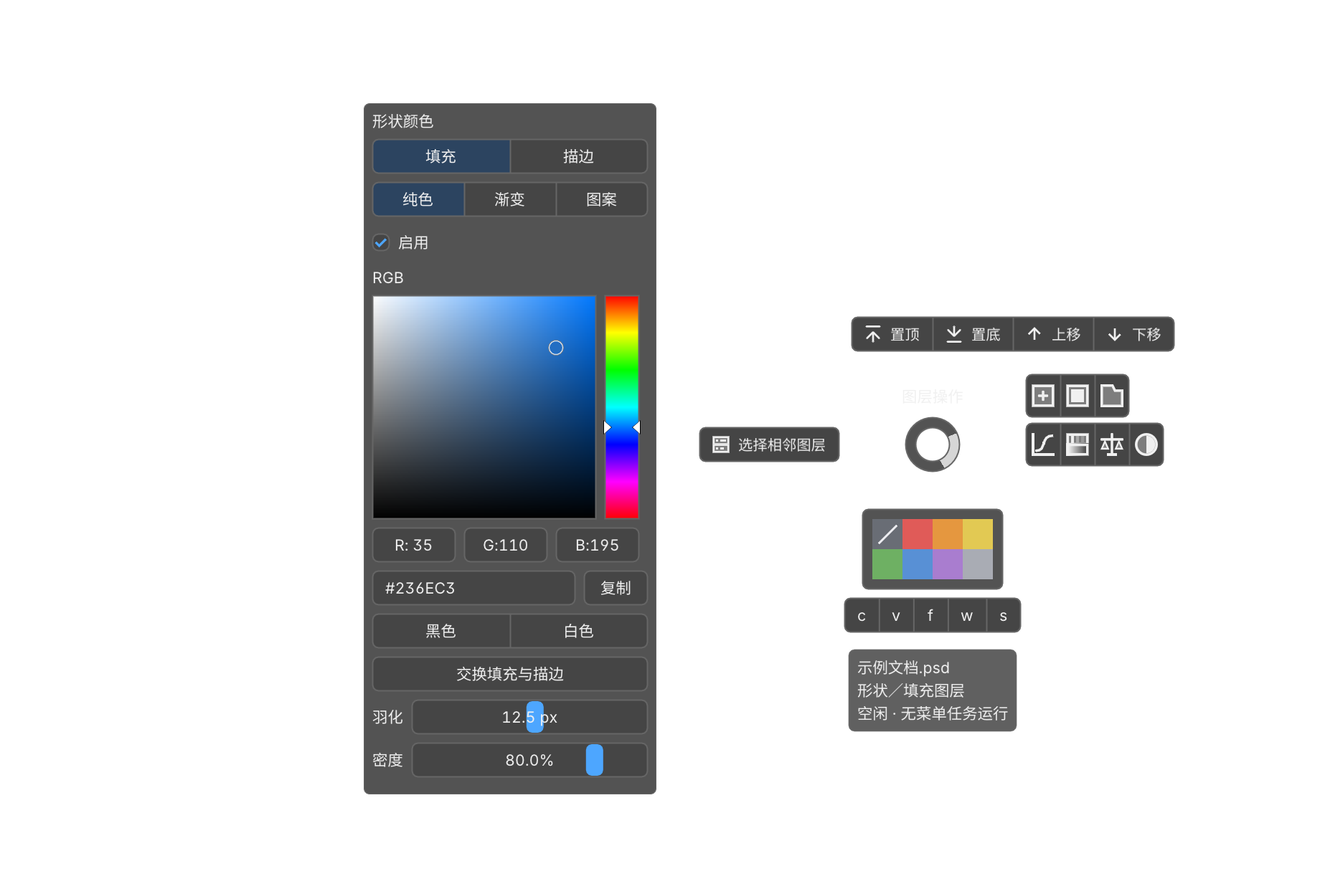
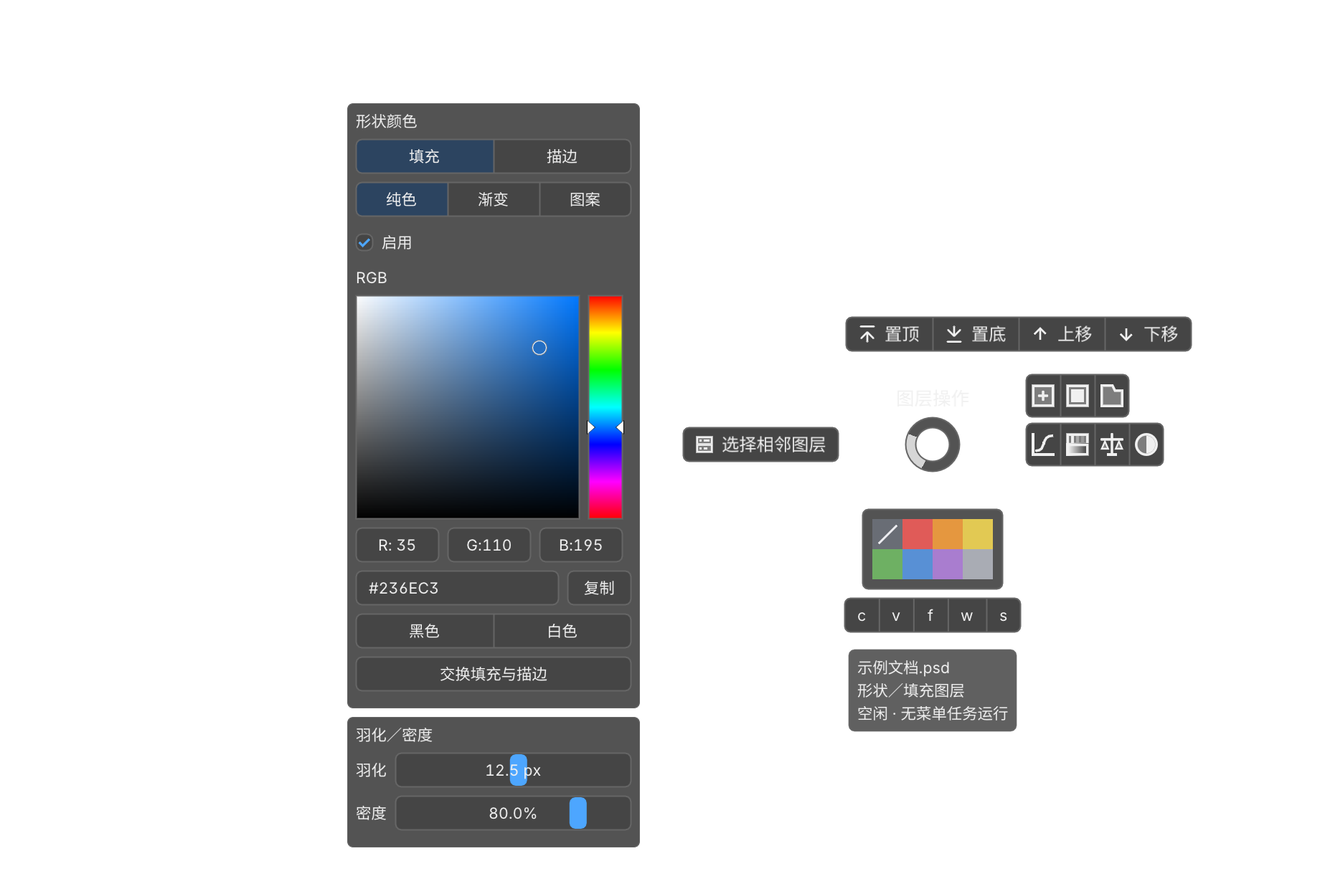
feat: split color and vector mask editor panels

diff --git a/uxp/offline-probe/labels.js b/uxp/offline-probe/labels.js
@@ -741,13 +741,11 @@ function createShapePaint(ps,session,capture,selectionContext) {
         const key=p=>JSON.stringify([p.kind,p.enabled,p.rgb,p.stops?.map(s=>[s.location,...s.rgb]),p.name,p.width]);
         const fillChanged=key(params.fill)!==key(appliedPaint.fill),strokeChanged=key(params.stroke)!==key(appliedPaint.stroke);
         const paintChanged=fillChanged || strokeChanged;
-        // A legacy shape can have no AGM stroke descriptor at all. A fill-only
-        // shapeStyle set materializes a default stroke; use contentLayer's
-        // native fill setter instead to preserve that absence and its flags.
-        const fillOnly=fillChanged && !strokeChanged && params.fill.kind==='solid' &&
-          params.fill.enabled===appliedPaint.fill.enabled;
-        const to=before.vector&&!fillOnly?{_obj:'shapeStyle'}:build(params.fill,original.fill);
-        if(before.vector && !fillOnly) {
+        // Vector-backed content must use Photoshop's shapeStyle setter.
+        // Direct solidColorLayer writes are unavailable in some real shapes,
+        // including vector masks inherited by a newly created solid fill.
+        const to=before.vector?{_obj:'shapeStyle'}:build(params.fill,original.fill);
+        if(before.vector) {
           if(fillChanged)to.fillContents=build(params.fill,original.fill);
           if(strokeChanged || params.fill.enabled!==appliedPaint.fill.enabled) {
             to.strokeStyle={...clone(appliedRaw.stroke),strokeStyleVersion:2,fillEnabled:params.fill.enabled};

diff --git a/uxp/offline-probe/main.js b/uxp/offline-probe/main.js
@@ -121,7 +121,7 @@ async function probe(reason) {
       heartbeatValue={
         ...await metadata(),
         reason: reason === 'poll' ? 'heartbeat' : reason,
-        sequence: ++sequence, probe_version: '0.3.25', session, transport: 'plugin-data-files',
+        sequence: ++sequence, probe_version: '0.3.26', session, transport: 'plugin-data-files',
         layer_observation:observation,
         ...await labels.interfacePreferences(),
         photoshop_version: optional(() => uxp.host.version),
@@ -160,7 +160,7 @@ async function probe(reason) {
       catch(_){}
     }
     seen.add(request.id); // Consume before any write; never retry after an uncertain response.
-    const response = {schema:1,session,id: request.id, probe_version: '0.3.25', operation: request.operation,
+    const response = {schema:1,session,id: request.id, probe_version: '0.3.26', operation: request.operation,
       transport: 'plugin-data-files', document_count: app.documents.length,
       completed_at_ms: Date.now(), phase: 'completed'};
     const timingStarted=Date.now(),timings={};

diff --git a/native/ShapeColorEditor.h b/native/ShapeColorEditor.h
@@ -8,13 +8,13 @@ struct ShapeColorEditor {
     std::string hexKey;
     ULONGLONG copiedAt=0;
     bool copyFailed=false;
-    RECT bounds{},copyBounds{},gradientBounds{},featherBounds{},densityBounds{};
+    RECT bounds{},maskBounds{},copyBounds{},gradientBounds{},featherBounds{},densityBounds{};
     bool gradientDragging=false;
     float gradientDragOffset=0;
     void prepare(const Json& data) {
         maskPreviewStarted=false;
         lastPreview=Json();
-        available=false;dirty=false;bounds=copyBounds=gradientBounds=featherBounds=densityBounds={};gradientDragging=false;gradientDragOffset=0;channel=stop=0;modes={};hexInput[0]=0;hexKey.clear();copiedAt=0;copyFailed=false;
+        available=false;dirty=false;bounds=maskBounds=copyBounds=gradientBounds=featherBounds=densityBounds={};gradientDragging=false;gradientDragOffset=0;channel=stop=0;modes={};hexInput[0]=0;hexKey.clear();copiedAt=0;copyFailed=false;
         if(!data.value("available",false))return;
         if(!data.at("revision").is_string() || !data.at("fill").is_object() || !data.at("stroke").is_object())return;
         original=draft=Json{{"revision",data.at("revision")},{"fill",data.at("fill")},{"stroke",data.at("stroke")}};
@@ -50,6 +50,7 @@ struct ShapeColorEditor {
         return true;
     }
     bool hasMask() const {return vector && draft.contains("mask");}
+    bool hit(POINT point) const {return PtInRect(&bounds,point) || PtInRect(&maskBounds,point);}
 };
 static ShapeColorEditor shapeEditor;
 static Json testedShapePaint;
@@ -192,7 +193,7 @@ static void drawGradientBar(float width) {
     ImGui::SetCursorScreenPos({at.x,at.y+menuGradientEditorHeight*scale+menuPanelGap*scale});
 }
 static void drawShapeEditor() {
-    shapeEditor.bounds=shapeEditor.copyBounds=shapeEditor.gradientBounds=shapeEditor.featherBounds=shapeEditor.densityBounds={};if(!shapeEditor.ready())return;
+    shapeEditor.bounds=shapeEditor.maskBounds=shapeEditor.copyBounds=shapeEditor.gradientBounds=shapeEditor.featherBounds=shapeEditor.densityBounds={};if(!shapeEditor.ready())return;
     const auto windowPos=ImGui::GetWindowPos(),windowSize=ImGui::GetWindowSize();
     const float available=pieCenter.x-windowPos.x-65*scale-basicLabelExtent(0).x-basicTextOffset()-figmaBasicRightPadding*scale-30*scale;
     if(available<140*scale)return;
@@ -201,10 +202,13 @@ static void drawShapeEditor() {
     const float row=menuControlHeight*scale+gap,textLine=panelFont->FontSize+gap;
     const auto kind=shapeEditor.current().value("kind",std::string("solid"));
     const float content=2*menuControlPadding*scale+textLine+2*row+(shapeEditor.vector?row:0)+
-        (kind=="pattern"?row:textLine+width-2*menuControlPadding*scale+2*row+(kind=="gradient"?menuGradientEditorHeight*scale+gap:0))+(shapeEditor.vector?row:0)+(shapeEditor.hasMask()?2*row:0);
-    const float height=std::min(content,windowSize.y-24*scale);
+        (kind=="pattern"?row:textLine+width-2*menuControlPadding*scale+2*row+(kind=="gradient"?menuGradientEditorHeight*scale+gap:0))+(shapeEditor.vector?row:0);
+    const float maskHeight=shapeEditor.hasMask()?2*menuControlPadding*scale+textLine+2*row:0;
+    const float separation=shapeEditor.hasMask()?gap:0;
+    const float height=std::min(content,windowSize.y-24*scale-maskHeight-separation);
+    const float totalHeight=height+separation+maskHeight;
     ImVec2 at={std::max(windowPos.x+16*scale,pieCenter.x-65*scale-basicLabelExtent(0).x-basicTextOffset()-figmaBasicRightPadding*scale-30*scale-width),std::max(windowPos.y+12*scale,pieCenter.y-238*scale)};
-    at.y=std::max(windowPos.y+12*scale,std::min(at.y,windowPos.y+windowSize.y-height-12*scale));
+    at.y=std::max(windowPos.y+12*scale,std::min(at.y,windowPos.y+windowSize.y-totalHeight-12*scale));
     shapeEditor.bounds={LONG(at.x),LONG(at.y),LONG(at.x+width),LONG(at.y+height)};
     const auto saved=ImGui::GetCursorScreenPos();ImGui::SetCursorScreenPos(at);
     ImGui::PushStyleColor(ImGuiCol_ChildBg,ImGui::GetStyle().Colors[ImGuiCol_WindowBg]);
@@ -249,7 +253,7 @@ static void drawShapeEditor() {
         Json& c=paintKind=="solid"?p["rgb"]:p["stops"][shapeEditor.stop]["rgb"];
         float color[]={c[0].get<float>()/255,c[1].get<float>()/255,c[2].get<float>()/255,1};
         ImGui::TextUnformatted("RGB");
-        const float reserve=((shapeEditor.vector?3:2)+(shapeEditor.hasMask()?2:0))*ImGui::GetFrameHeightWithSpacing()+gap;
+        const float reserve=(shapeEditor.vector?3:2)*ImGui::GetFrameHeightWithSpacing()+gap;
         ImGui::SetNextItemWidth(std::min(inner,std::max(90*scale,ImGui::GetContentRegionAvail().y-reserve)));
         if(ImGui::ColorPicker4("##paint",color,ImGuiColorEditFlags_NoAlpha|ImGuiColorEditFlags_NoSidePreview|ImGuiColorEditFlags_NoSmallPreview|
             ImGuiColorEditFlags_NoOptions|ImGuiColorEditFlags_NoDragDrop|ImGuiColorEditFlags_PickerHueBar|ImGuiColorEditFlags_DisplayRGB|ImGuiColorEditFlags_Uint8)){
@@ -280,7 +284,14 @@ static void drawShapeEditor() {
         shapeEditor.modes={};for(int i=0;i<2;++i){const auto& v=shapeEditor.draft[i?"stroke":"fill"];shapeEditor.modes[i]=Json::object();shapeEditor.modes[i][v.at("kind").get<std::string>()]=v;}
         shapeEditor.stop=0;shapeEditor.changed();
     }
+    ImGui::EndDisabled();ImGui::EndChild();
     if(shapeEditor.hasMask()) {
+        const ImVec2 maskAt={at.x,at.y+height+gap};
+        shapeEditor.maskBounds={LONG(maskAt.x),LONG(maskAt.y),LONG(maskAt.x+width),LONG(maskAt.y+maskHeight)};
+        ImGui::SetCursorScreenPos(maskAt);
+        ImGui::BeginChild("shape-mask",{width,maskHeight},ImGuiChildFlags_Borders,ImGuiWindowFlags_NoScrollbar|ImGuiWindowFlags_NoScrollWithMouse);
+        ImGui::BeginDisabled(pieAnimating);
+        ImGui::TextUnformatted("羽化／密度");
         const float labelWidth=std::max(ImGui::CalcTextSize("羽化").x,ImGui::CalcTextSize("密度").x);
         auto slider=[&](const char* label,const char* id,const char* key,float maximum,const char* format,ImGuiSliderFlags flags,RECT& bounds){
             const auto at=ImGui::GetCursorScreenPos();
@@ -293,9 +304,10 @@ static void drawShapeEditor() {
         };
         slider("羽化","##mask-feather","feather",1000.f,"%.1f px",ImGuiSliderFlags_Logarithmic,shapeEditor.featherBounds);
         slider("密度","##mask-density","density",100.f,"%.1f%%",ImGuiSliderFlags_None,shapeEditor.densityBounds);
+        ImGui::EndDisabled();ImGui::EndChild();
     }
     // No writes for channel/stop selection or copying; one latest draft per frame.
     if(!pieAnimating && shapeEditor.valid() && (shapeEditor.dirty || maskPreviewStarted) &&
        shapeEditor.draft!=shapeEditor.lastPreview)emitMaskPreview();
-    ImGui::EndDisabled();ImGui::EndChild();ImGui::PopStyleVar(6);ImGui::PopFont();ImGui::PopStyleColor();ImGui::SetCursorScreenPos(saved);
+    ImGui::PopStyleVar(6);ImGui::PopFont();ImGui::PopStyleColor();ImGui::SetCursorScreenPos(saved);
 }

diff --git a/native/MenuHost.cpp b/native/MenuHost.cpp
@@ -518,7 +518,7 @@ static int holdActionAt(POINT point) {
         if(capsDividerAt(i,point))return -1;
         return 40+i;
     }
-    if(shapeEditor.ready() && PtInRect(&shapeEditor.bounds,point))return 100;
+    if(shapeEditor.ready() && shapeEditor.hit(point))return 100;
     for(int i=0;i<7;++i)if(quickEnabled(i) && PtInRect(&quickRows[i],point)) {
         if(quickDividerAt(i,point))return -1;
         return 32+i;
@@ -1670,7 +1670,7 @@ int main() {
     // Keep this policy identical in production and automated checks.
     io.ConfigFlags|=ImGuiConfigFlags_NoMouseCursorChange;
     scale=ImGui_ImplWin32_GetDpiScaleForHwnd(window);theme();
-    if (!preview.empty() || selfTest) SetWindowPos(window,nullptr,selfTest?testOrigin.x:100,selfTest?testOrigin.y:100,
+    if (!preview.empty() || selfTest) SetWindowPos(window,nullptr,testOrigin.x,testOrigin.y,
         static_cast<int>((previewShape?920:contextMode?260:360)*scale),static_cast<int>((previewShape?menuShapeWindowHeight:contextMode?240:300)*scale),SWP_NOZORDER|SWP_NOACTIVATE);
     io.ConfigViewportsNoTaskBarIcon=true;
     std::wstring fontPath; wchar_t windowsPath[MAX_PATH];GetWindowsDirectoryW(windowsPath,MAX_PATH);fontPath=std::wstring(windowsPath)+L"/Fonts/msyh.ttc";
@@ -1849,10 +1849,10 @@ int main() {
             ShowWindow(window,SW_MINIMIZE);ShowWindow(window,SW_HIDE);
             for (int i=0;i<3;++i) {ShowWindow(window,SW_RESTORE);ShowWindow(window,SW_HIDE);}
         }
-    if (!selfTest) {ShowWindow(window,SW_SHOWNORMAL);UpdateWindow(window);}
+    if (!selfTest) {ShowWindow(window,preview.empty()?SW_SHOWNORMAL:SW_SHOWNOACTIVATE);UpdateWindow(window);}
         resetMenu();
         if (previewKind=="hold" || previewKind=="busy") {
-            SetWindowPos(window,nullptr,100,100,static_cast<int>((previewShape?920:panelKind==4?820:620)*scale),static_cast<int>((previewShape?menuShapeWindowHeight:440)*scale),SWP_NOZORDER|SWP_NOACTIVATE);
+            SetWindowPos(window,nullptr,testOrigin.x,testOrigin.y,static_cast<int>((previewShape?920:panelKind==4?820:620)*scale),static_cast<int>((previewShape?menuShapeWindowHeight:440)*scale),SWP_NOZORDER|SWP_NOACTIVATE);
             setHoldMode(true);
             if (previewKind=="busy") accept({{"type","operation"},{"busy",true},{"action","select"}});
         }
@@ -2387,8 +2387,14 @@ int main() {
                 if(!shapeEditor.ready() || shapeEditor.bounds.right<=shapeEditor.bounds.left || ImGui::GetDrawData()->TotalVtxCount<=0)
                     throw std::runtime_error("Shape editor did not render through production window path");
                 const auto featherRect=shapeEditor.featherBounds,densityRect=shapeEditor.densityBounds;
-                if(featherRect.right<=featherRect.left || densityRect.right<=densityRect.left || densityRect.bottom>shapeEditor.bounds.bottom)
+                RECT shapeWindow;GetWindowRect(window,&shapeWindow);
+                if(featherRect.right<=featherRect.left || densityRect.right<=densityRect.left || densityRect.bottom>shapeEditor.maskBounds.bottom ||
+                   shapeEditor.maskBounds.left!=shapeEditor.bounds.left || shapeEditor.maskBounds.right!=shapeEditor.bounds.right ||
+                   shapeEditor.maskBounds.top-shapeEditor.bounds.bottom<LONG(menuPanelGap*scale)-1 ||
+                   featherRect.top<shapeEditor.maskBounds.top || shapeEditor.maskBounds.bottom>shapeWindow.bottom)
                     throw std::runtime_error("Vector mask sliders are clipped or have no hit bounds");
+                POINT panelGap={shapeEditor.bounds.left+LONG(10*scale),(shapeEditor.bounds.bottom+shapeEditor.maskBounds.top)/2};
+                if(holdActionAt(panelGap)!=-1 || shapeEditor.hit(panelGap))throw std::runtime_error("Split panel gap must cancel, never confirm");
                 auto maskMouse=[&](const RECT& r,float portion,bool down){io.AddMouseViewportEvent(ImGui::GetMainViewport()->ID);
                     io.AddMousePosEvent(r.left+(r.right-r.left)*portion,(r.top+r.bottom)*.5f);
                     io.AddMouseButtonEvent(ImGuiMouseButton_Left,down);numberFrame(ImGuiKey_None,false);};
@@ -2418,7 +2424,7 @@ int main() {
                 if(testedCopiedHex!="#0C2238" || testedActions.size()!=shapeCount || shapeEditor.dirty)
                     throw std::runtime_error("Hex copy changed the draft or submitted Photoshop action");
                 for(int context:{0,1,3,4}){panelKind=context;numberFrame(ImGuiKey_None,false);
-                    if(shapeEditor.ready() || shapeEditor.bounds.right)throw std::runtime_error("Shape editor escaped Layers context");}
+                    if(shapeEditor.ready() || shapeEditor.bounds.right || shapeEditor.maskBounds.right)throw std::runtime_error("Shape editor escaped Layers context");}
                 panelKind=2;
                 for(int kind:{0,1,2,3,4,5,7,8,9}){layerKind=kind;numberFrame(ImGuiKey_None,false);
                     if(shapeEditor.ready() || shapeEditor.bounds.right)throw std::runtime_error("Stale shape metadata enabled a nonshape layer");}
@@ -2494,10 +2500,10 @@ int main() {
                 SendMessageW(window,WM_APP+22,0,0);auto pinnedSubmitted=testedActions.size();SendMessageW(window,WM_APP+22,0,0);
                 if(testedActions.back()!="shape.paint" || testedActions.size()!=pinnedSubmitted)throw std::runtime_error("Pinned paint repeated");
                 resetShape();inputFocused=true;numberFrame(ImGuiKey_None,false);
-                if(shapeEditor.ready() || shapeEditor.bounds.right)throw std::runtime_error("Input protection retained shape editor");
+                if(shapeEditor.ready() || shapeEditor.bounds.right || shapeEditor.maskBounds.right)throw std::runtime_error("Input protection retained shape editor");
                 inputFocused=false;shapeEditor.prepare(Json{{"available",false}});testedActions.resize(shapeCount);
                 shapeFixture["vector"]=false;shapeEditor.prepare(shapeFixture);setHoldMode(true);numberFrame(ImGuiKey_None,false);
-                if(!shapeEditor.ready() || shapeEditor.vector || shapeEditor.channel!=0 || shapeEditor.bounds.right<=shapeEditor.bounds.left)
+                if(!shapeEditor.ready() || shapeEditor.vector || shapeEditor.channel!=0 || shapeEditor.bounds.right<=shapeEditor.bounds.left || shapeEditor.maskBounds.right)
                     throw std::runtime_error("Plain fill must expose only fill controls");
                 shapeEditor.prepare(Json{{"available",false}});
                 const auto previousRenderMode=renderMode;

diff --git a/tools/verify-paint-preview.py b/tools/verify-paint-preview.py
@@ -20,7 +20,7 @@ def live_idle():
     state=json.load(urlopen('http://127.0.0.1:15151/api/status',timeout=5));ps=state['photoshop']
     if ps['busy'] or state['menu']['visible'] or state['photoshop_start']['active'] or ps.get('uxp_recovery',{}).get('active'):
         raise RuntimeError('Live service is not idle')
-    if ps.get('uxp_version')!='0.3.25' or not ps.get('uxp_ready'):raise RuntimeError('Loaded UXP25 required')
+    if ps.get('uxp_version')!='0.3.26' or not ps.get('uxp_ready'):raise RuntimeError('Loaded UXP26 required')
     if (Path(state['data_dir'])/'uxp-pending.json').exists():raise RuntimeError('Live request unresolved')
     return state
 
@@ -121,7 +121,14 @@ async def main(normal=False):
                 for k in ('layerID','layerKind','path','order','hasUserMask','userMaskFeather','userMaskDensity','vectorMaskFeather','vectorMaskDensity'):
                     assert before.get(k)==after.get(k),(name,k)
                 if channel=='stroke':assert before['adjustment']==after['adjustment']
-                if channel=='fill':assert before.get('AGMStrokeStyleInfo')==after.get('AGMStrokeStyleInfo')
+                if channel=='fill':
+                    if before.get('AGMStrokeStyleInfo') is None and after.get('AGMStrokeStyleInfo') is not None:
+                        # Native shapeStyle may materialize a previously implicit
+                        # default stroke. It must remain disabled; undo below
+                        # still restores the exact descriptor absence.
+                        assert not after['AGMStrokeStyleInfo'].get('strokeEnabled',False)
+                        assert after['AGMStrokeStyleInfo'].get('fillEnabled',True)
+                    else:assert before.get('AGMStrokeStyleInfo')==after.get('AGMStrokeStyleInfo')
                 if gradient:
                     old=before['adjustment'][0] if channel=='fill' else before['AGMStrokeStyleInfo']['strokeStyleContent']
                     new=after['adjustment'][0] if channel=='fill' else after['AGMStrokeStyleInfo']['strokeStyleContent']
@@ -152,9 +159,16 @@ async def main(normal=False):
                 for attempt in range(50):
                     try:guard();break
                     except RuntimeError as error:
-                        if 'Loaded UXP25 required' not in str(error):raise
+                        if 'Loaded UXP26 required' not in str(error):raise
                         await asyncio.sleep(.2)
                 else:raise RuntimeError('UXP heartbeat did not resume after fixture creation')
+                if not normal:
+                    await bridge.execute('layer.solid',frozen_target=await asyncio.to_thread(bridge._capture_target))
+                    await run_case(kind+'-new-solid-fill-commit');await asyncio.sleep(2)
+                    await run_case(kind+'-new-solid-fill-cancel',end='cancel');await asyncio.sleep(2)
+                    # Only our known-terminal owned fixture is touched here.
+                    # Return to the original vector shape for the remaining cases.
+                    guard();app.DoJavaScript('app.activeDocument.activeLayer.remove();')
                 await run_case(kind+'-fill-commit');await asyncio.sleep(2)
                 await run_case(kind+'-fill-cancel',end='cancel');await asyncio.sleep(2)
                 await run_case(kind+'-stroke-commit',channel='stroke');await asyncio.sleep(2)
@@ -190,7 +204,7 @@ async def main(normal=False):
         if owned is not None and not bridge.busy and not bridge.transport.pending.value and win32process.GetWindowThreadProcessId(win32gui.GetForegroundWindow())[1]!=window['pid']:
             owned.Close(2);owned=None
         if previous is not None and owned is None and not bridge.busy:app.ActiveDocument=previous
-        report={'runtime_version':state['version'],'executor_version':'0.3.25','complete':complete,'normal':normal,
+        report={'runtime_version':state['version'],'executor_version':'0.3.26','complete':complete,'normal':normal,
                 'scope':'real UXP with native readback acknowledgements before confirmation; independent COM after terminal; no synthesized input',
                 'physical_input':False,'cases':cases,'foreground_preserved':win32gui.GetForegroundWindow()==initial,
                 'owned_document_closed':owned is None,'unresolved':bool(bridge.busy or bridge.transport.pending.value),'placement':placement}

diff --git a/tools/verify-mask-preview.py b/tools/verify-mask-preview.py
@@ -20,7 +20,7 @@ def live_idle():
     state=json.load(urlopen('http://127.0.0.1:15151/api/status',timeout=5));ps=state['photoshop']
     if ps['busy'] or state['menu']['visible'] or state['photoshop_start']['active'] or ps.get('uxp_recovery',{}).get('active'):
         raise RuntimeError('Live service is not idle')
-    if ps.get('uxp_version')!='0.3.25' or not ps.get('uxp_ready'):raise RuntimeError('Loaded UXP25 required')
+    if ps.get('uxp_version')!='0.3.26' or not ps.get('uxp_ready'):raise RuntimeError('Loaded UXP26 required')
     if (Path(state['data_dir'])/'uxp-pending.json').exists():raise RuntimeError('Live request unresolved')
     return state
 
@@ -136,7 +136,7 @@ async def main(normal=False):
                 for attempt in range(50):
                     try:guard();break
                     except RuntimeError as error:
-                        if 'Loaded UXP25 required' not in str(error):raise
+                        if 'Loaded UXP26 required' not in str(error):raise
                         await asyncio.sleep(.2)
                 else:raise RuntimeError('UXP heartbeat did not resume after fixture creation')
                 await run_case(kind+'-live-commit');await asyncio.sleep(2)
@@ -156,7 +156,7 @@ async def main(normal=False):
         if owned is not None and not bridge.busy and not bridge.transport.pending.value and win32process.GetWindowThreadProcessId(win32gui.GetForegroundWindow())[1]!=window['pid']:
             owned.Close(2);owned=None
         if previous is not None and owned is None and not bridge.busy:app.ActiveDocument=previous
-        report={'runtime_version':state['version'],'executor_version':'0.3.25','complete':complete,'normal':normal,
+        report={'runtime_version':state['version'],'executor_version':'0.3.26','complete':complete,'normal':normal,
                 'scope':'real UXP with native readback acknowledgements before confirmation; independent COM after terminal; no synthesized input',
                 'physical_input':False,'cases':cases,'foreground_preserved':win32gui.GetForegroundWindow()==initial,
                 'owned_document_closed':owned is None,'unresolved':bool(bridge.busy or bridge.transport.pending.value),'placement':placement}

diff --git a/backend/uxp_bridge.py b/backend/uxp_bridge.py
@@ -96,8 +96,8 @@ class UxpTransport:
                     raise RuntimeError('请更新并重新加载 UXP 0.3.18，以支持转换智能对象；未提交操作')
                 if payload.get('command')=='shape.paint' and 'mask' in payload.get('paint',{}) and version(heartbeat.get('probe_version'))<(0,3,20):
                     raise RuntimeError('请更新并重新加载 UXP 0.3.20，以支持形状羽化／密度；未提交操作')
-                if payload.get('command')=='shape.preview' and (preview is None or version(heartbeat.get('probe_version'))<(0,3,25)):
-                    raise RuntimeError('请更新并重新加载 UXP 0.3.25，以支持颜色及蒙版实时预览；未提交操作')
+                if payload.get('command')=='shape.preview' and (preview is None or version(heartbeat.get('probe_version'))<(0,3,26)):
+                    raise RuntimeError('请更新并重新加载 UXP 0.3.26，以支持颜色及蒙版实时预览；未提交操作')
                 request={**payload,'id':identity,'token':token,'session':heartbeat.get('session'),'operation':operation,'expires_at_ms':int(time.time()*1000)+5000}
                 encoded=json.dumps(request)
                 if len(encoded.encode('utf-8'))>4096:raise ValueError('UXP 请求超出本地协议长度，未提交操作')

diff --git a/tests/test_uxp_bridge.py b/tests/test_uxp_bridge.py
@@ -117,9 +117,9 @@ class UxpDiscoveryTests(unittest.TestCase):
         with self.assertRaisesRegex(RuntimeError,'0.3.20'):
             self.transport.call('set_label',command='shape.paint',paint={'mask':{'feather':0,'density':100}},target={'session':'s'})
         self.assertFalse((folder/'probe-request.json').exists());self.assertIsNone(self.transport.pending.value)
-        heartbeat['probe_version']='0.3.24'
+        heartbeat['probe_version']='0.3.25'
         (folder/'probe-last.json').write_text(json.dumps(heartbeat),'utf-8')
-        with self.assertRaisesRegex(RuntimeError,'0.3.25'):
+        with self.assertRaisesRegex(RuntimeError,'0.3.26'):
             self.transport.call('set_label',preview=object(),command='shape.preview',target={'session':'s'})
         self.assertFalse((folder/'probe-request.json').exists());self.assertIsNone(self.transport.pending.value)
     def test_smart_conversion_rejects_old_plugin_before_publication(self):

diff --git a/backend/mask_preview.py b/backend/mask_preview.py
@@ -77,7 +77,7 @@ class MaskPreview:
 async def dispatch_preview(app, action, args):
     from .uxp_bridge import UxpBridge
     if not isinstance(app.bridge,UxpBridge) or not app.desktop:
-        raise RuntimeError('实时预览需要桌面菜单和 UXP 0.3.25')
+        raise RuntimeError('实时预览需要桌面菜单和 UXP 0.3.26')
     epoch=args.get('menu_epoch')
     if type(epoch) is not int or epoch!=app.desktop.menu_epoch:
         raise ValueError('预览菜单已过期')

diff --git a/backend/version.py b/backend/version.py
@@ -1,1 +1,1 @@
-APP_VERSION = '0.4.158'
+APP_VERSION = '0.4.159'

diff --git a/OFFLINE-INSTALL.md b/OFFLINE-INSTALL.md
@@ -1,12 +1,12 @@
 # 统一后台与 UXP 离线管理
 
-当前v0.4.158／内置UXP0.3.25（2026-10-17）。后台为固定应用窗口，左侧主页面与页内标签切换；最近任务独立列表／详情，长说明默认折叠，保存操作固定在底部。
+当前v0.4.159／内置UXP0.3.26（2026-10-17）。后台为固定应用窗口，左侧主页面与页内标签切换；最近任务独立列表／详情，长说明默认折叠，保存操作固定在底部。
 
 当前交付形态是主程序 PhotoshopMenu.exe，内置后台、菜单、热键和 UXP 插件资源。UXP 的安装、禁用／启用、更新、回退与卸载在后台“插件管理”页面操作；无需独立 OfflineSetup 安装器。
 
 v0.4.120起支持应用更新；当前从主导航“应用更新”进入：GitHub Releases自动检查、下载校验／安装并重启后台，仅检查和下载联网，保留离线部署／执行。保留结果核对：超时或断线只核对原请求，不自动重发。无可信结果时继续阻止修改，重启不清除保护。详见[更新说明](docs/UPDATES.md)。
 
-158的颜色与羽化／密度实时预览需要UXP25：保存文档并正常关闭PS，安装内置插件，再启动确认实际加载0.3.25，见[操作与取消恢复](docs/MASK-PREVIEW.md)。下面各旧版依赖仅为历史，不需要额外安装旧插件。
+158的颜色与羽化／密度实时预览需要UXP26：保存文档并正常关闭PS，安装内置插件，再启动确认实际加载0.3.26，见[操作与取消恢复](docs/MASK-PREVIEW.md)。下面各旧版依赖仅为历史，不需要额外安装旧插件。
 
 152的首次中部定位优化需要UXP22：保存文档并正常关闭PS，让默认跟随或“安装内置版”更新插件，再启动确认实际加载22。旧21仍可运行，但没有新的原生ID冷定位；使用范围见[Wiki](https://github.com/mianxiu/15100px-menu/wiki/Layer-performance)。
 
@@ -37,7 +37,7 @@ v0.4.120起支持应用更新；当前从主导航“应用更新”进入：Git
 
 插件管理读取本应用当前用户插件目录，检查manifest、执行文件、凭据和已管理文件SHA256，区分“未安装”“安装不完整或凭据异常”“文件与凭据校验通过”。同时显示安装版本、名称、目录及PS加载状态，PS未加载时不会把“已安装”表示成“可执行”。加载登记另行核对本插件在已有用户索引中的条目；不导出其他插件记录。
 
-“内置版本”来自当前运行的后台 EXE；“安装版本”来自磁盘上的插件；PS 实际加载版本来自 UXP 连接状态。三者含义不同。当前v0.4.158内置UXP0.3.25，0.3.25将填充／描边及渐变编辑接入同一个实时预览事务，0.3.24增加羽化／密度单事务实时预览，0.3.23按大小分流创建前整树读取，0.3.22增加经新鲜ID核验的位置提示，0.3.20增加形状矢量蒙版羽化／密度，0.3.19优化图层读取，0.3.18增加智能对象转换；0.3.17包含慢读取分阶段／退让，0.3.16包含Shift选层，0.3.13起已支持形状／填充颜色面板。须分别核对后台、磁盘安装与PS实际加载版本。插件默认中文名称“Photoshop 快捷菜单 v<插件版本>”及入口“检查连接”；英文名称“Photoshop Quick Menu v<插件版本>”及入口“Check connection”。安装／更新采用后台所选语言。已安装插件切换语言后显示名称待应用：先保存并正常关闭PS，后台保持运行，再点击“应用插件名称语言”，启动PS重新加载。操作有备份、所有权校验和失败恢复；只修改显示名称，不换ID，不替换执行代码或凭据，不改变启用状态。语言应用不自行关闭PS，也不自行启动PS；可使用后台启动按钮。
+“内置版本”来自当前运行的后台 EXE；“安装版本”来自磁盘上的插件；PS 实际加载版本来自 UXP 连接状态。三者含义不同。当前v0.4.159内置UXP0.3.26，0.3.25将填充／描边及渐变编辑接入同一个实时预览事务，0.3.24增加羽化／密度单事务实时预览，0.3.23按大小分流创建前整树读取，0.3.22增加经新鲜ID核验的位置提示，0.3.20增加形状矢量蒙版羽化／密度，0.3.19优化图层读取，0.3.18增加智能对象转换；0.3.17包含慢读取分阶段／退让，0.3.16包含Shift选层，0.3.13起已支持形状／填充颜色面板。须分别核对后台、磁盘安装与PS实际加载版本。插件默认中文名称“Photoshop 快捷菜单 v<插件版本>”及入口“检查连接”；英文名称“Photoshop Quick Menu v<插件版本>”及入口“Check connection”。安装／更新采用后台所选语言。已安装插件切换语言后显示名称待应用：先保存并正常关闭PS，后台保持运行，再点击“应用插件名称语言”，启动PS重新加载。操作有备份、所有权校验和失败恢复；只修改显示名称，不换ID，不替换执行代码或凭据，不改变启用状态。语言应用不自行关闭PS，也不自行启动PS；可使用后台启动按钮。
 
 从旧版升级到图层类型／七图标创建菜单时，须在后台“插件管理”安装／更新为当前后台显示的内置版本，并正常重启PS加载；仅替换主EXE不能让已加载的旧插件获得类型缓存。没有新鲜类型快照时图层操作保守置灰，不能靠连续按键恢复。安装包完成不代表当前机器已重载或其他Photoshop版本已验收。
 
